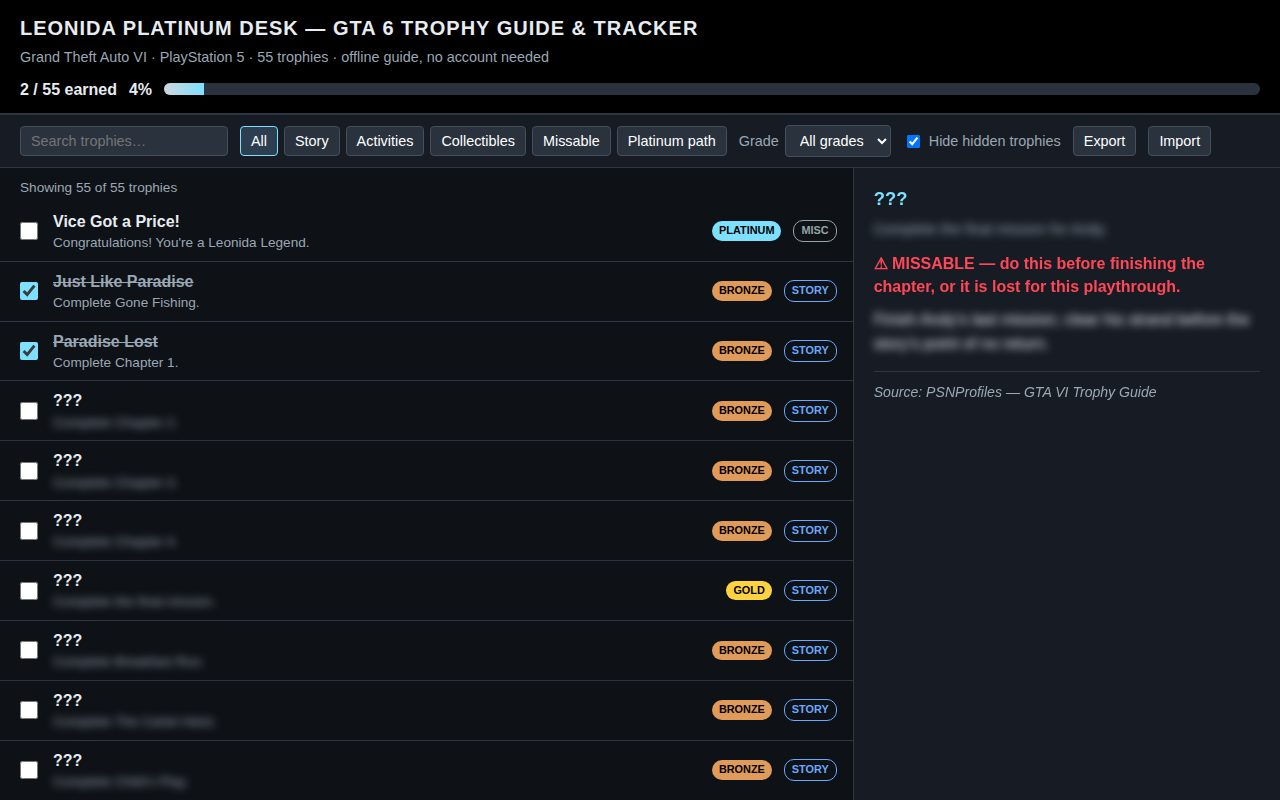
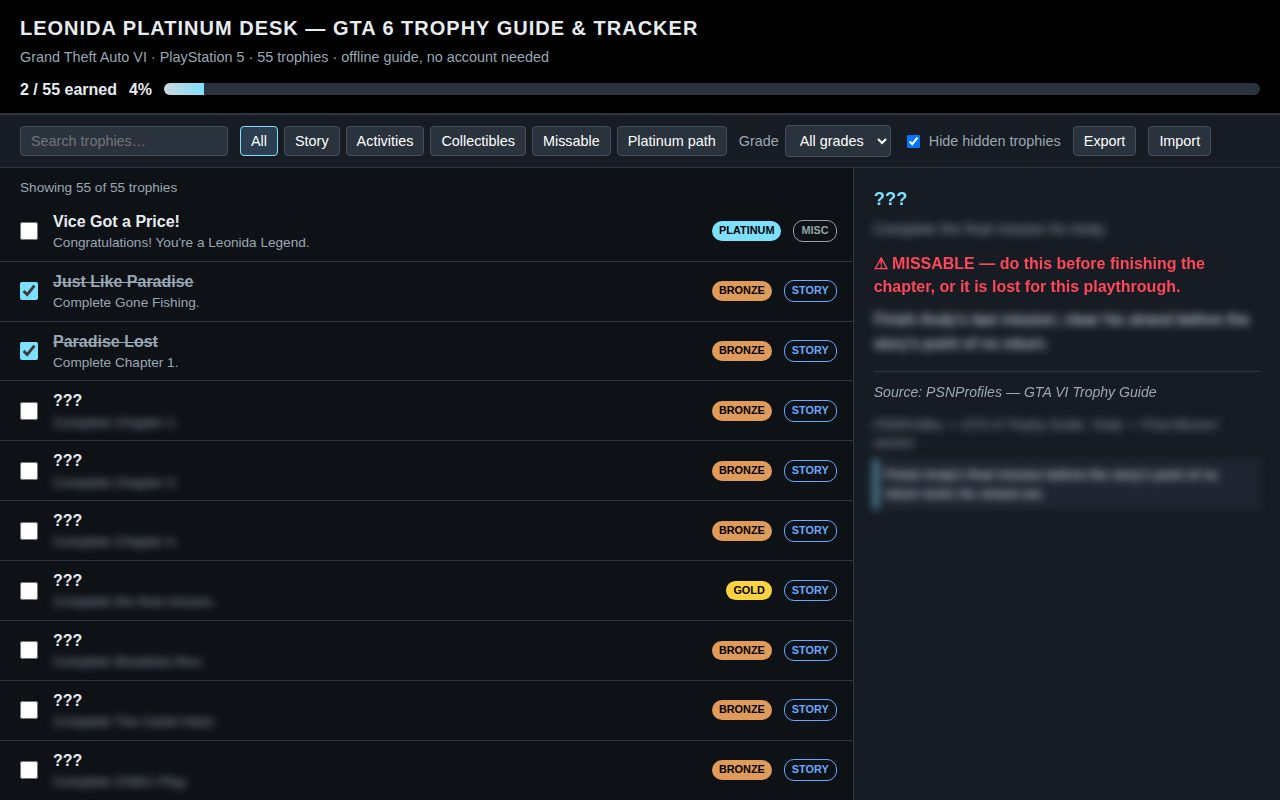
guide: per-trophy citations

Changed region(s): [[0.6562, 0.5, 0.9688, 0.625]]

diff --git a/app/style.css b/app/style.css
@@ -98,6 +98,9 @@ button:hover { background: #39434f; }
 .guide-panel .guide-text { margin: 0 0 12px; }
 .guide-missable { color: var(--missable); font-weight: 700; display: block; margin-bottom: 10px; }
 .guide-source { margin-top: 16px; padding-top: 10px; border-top: 1px solid var(--border); font-style: italic; color: var(--text-dim); font-size: .88rem; }
+.guide-cite { margin-top: 6px; font-style: italic; color: var(--text-dim); font-size: .8rem; line-height: 1.35; }
+.guide-detail { margin-top: 8px; padding: 6px 8px; border-left: 3px solid var(--platinum); background: var(--surface2); color: var(--text); font-size: .85rem; line-height: 1.4; }
+.guide-cite.blurred, .guide-detail.blurred { filter: blur(4px); user-select: none; }
 .guide-empty { color: var(--text-dim); text-align: center; margin-top: 40px; }
 .roadmap { background: #11151b; padding: 20px; border-top: 2px solid var(--border); }
 .roadmap h2 { margin: 0 0 4px; }

diff --git a/app/app.js b/app/app.js
@@ -148,6 +148,20 @@ function renderGuide() {
   s.className = 'guide-source';
   s.textContent = `Source: ${t.source}`;
   guideEl.append(g, s);
+  if (t.cite) {
+    const c = document.createElement('div');
+    c.className = 'guide-cite' + (hiddenSpoiler ? ' blurred' : '');
+    if (hiddenSpoiler) c.style.cssText = 'filter: blur(4px); user-select: none;';
+    c.textContent = t.cite;
+    guideEl.append(c);
+  }
+  if (t.detail) {
+    const dt = document.createElement('div');
+    dt.className = 'guide-detail' + (hiddenSpoiler ? ' blurred' : '');
+    if (hiddenSpoiler) dt.style.cssText = 'filter: blur(4px); user-select: none;';
+    dt.textContent = t.detail;
+    guideEl.append(dt);
+  }
 }
 
 function renderRoadmap() {
